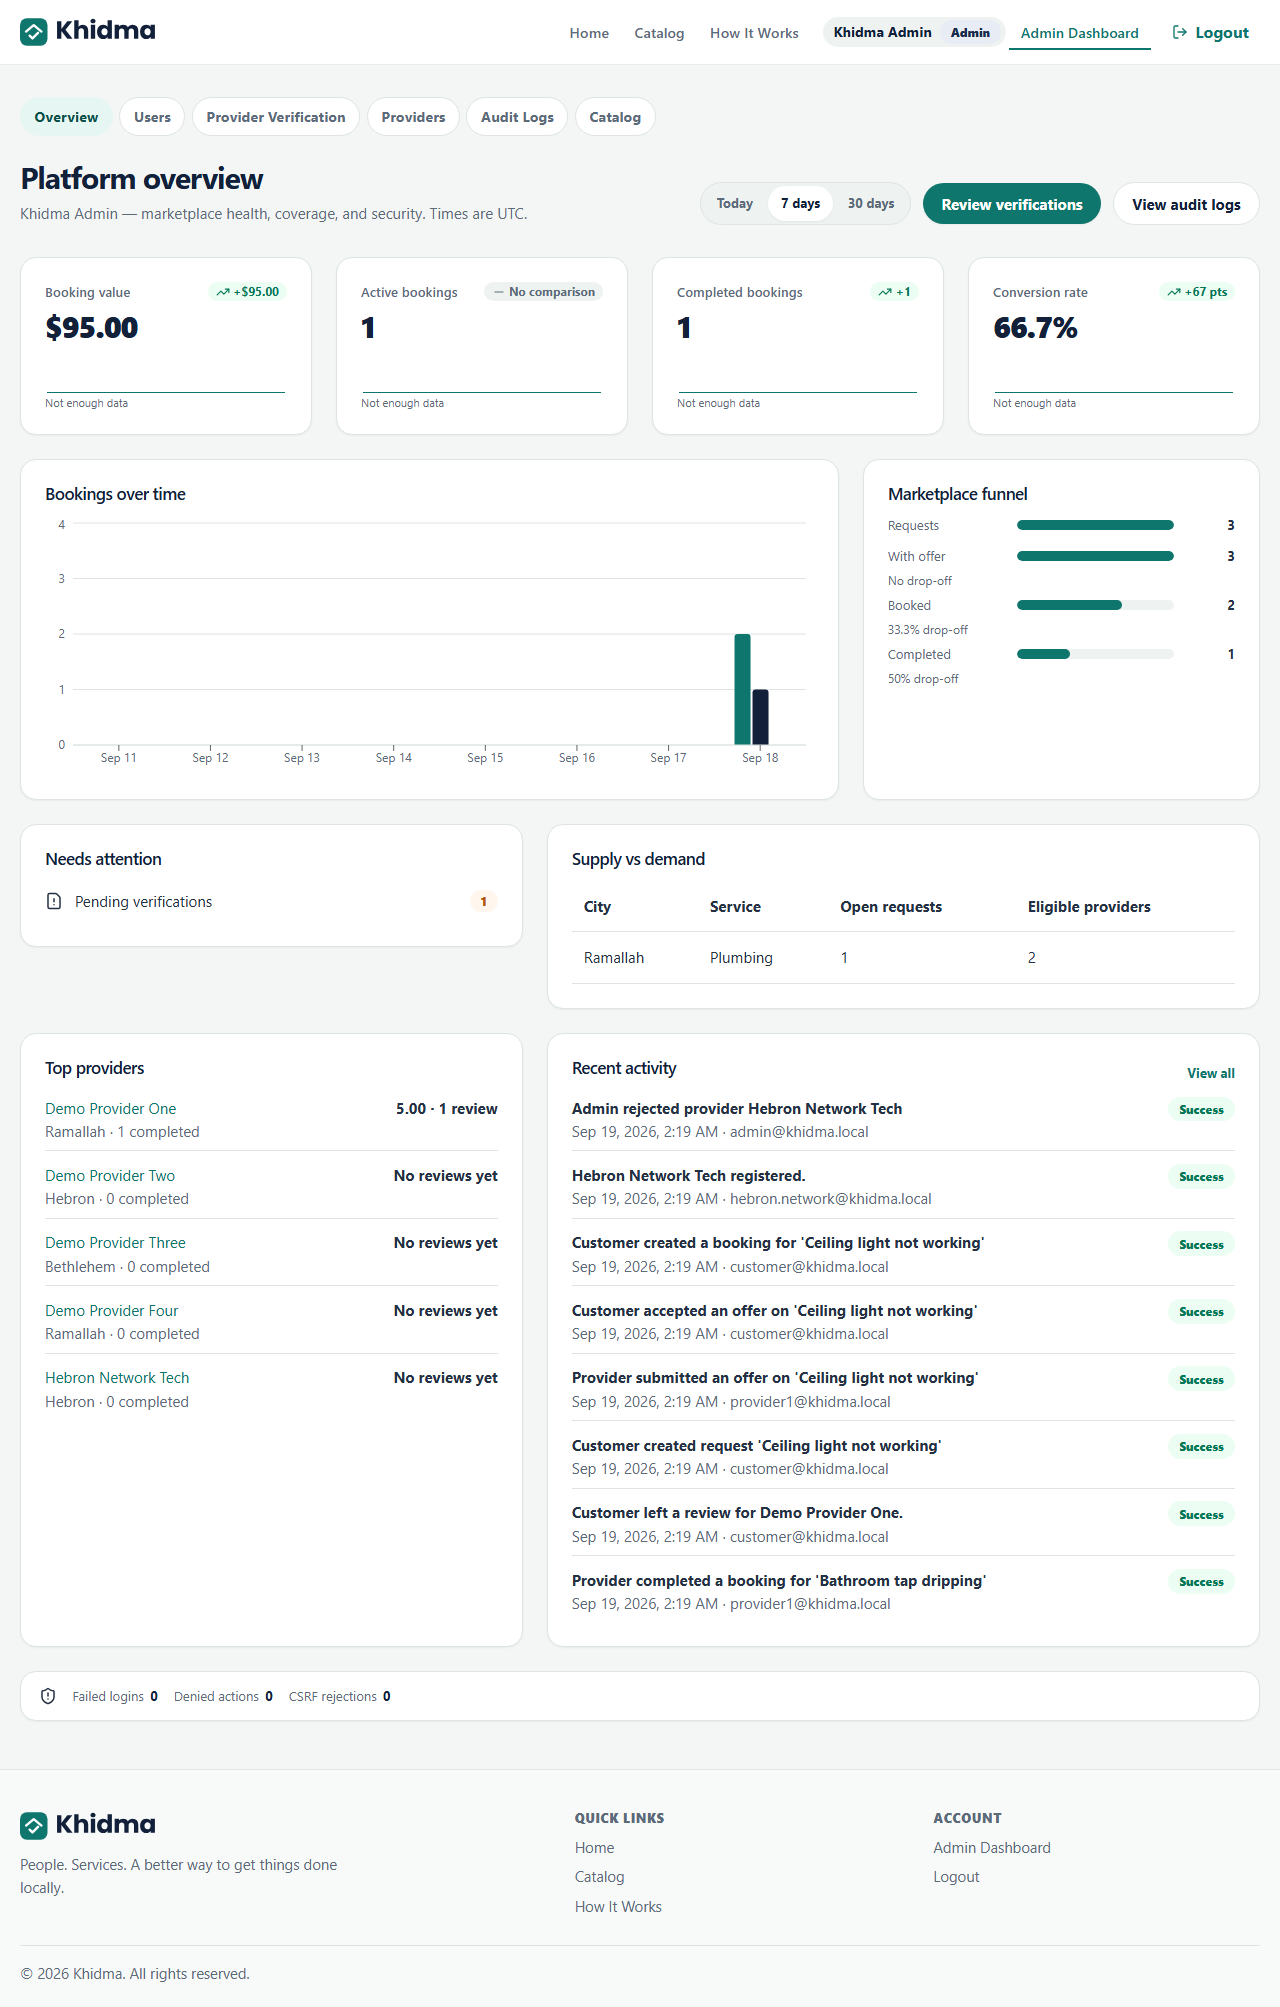
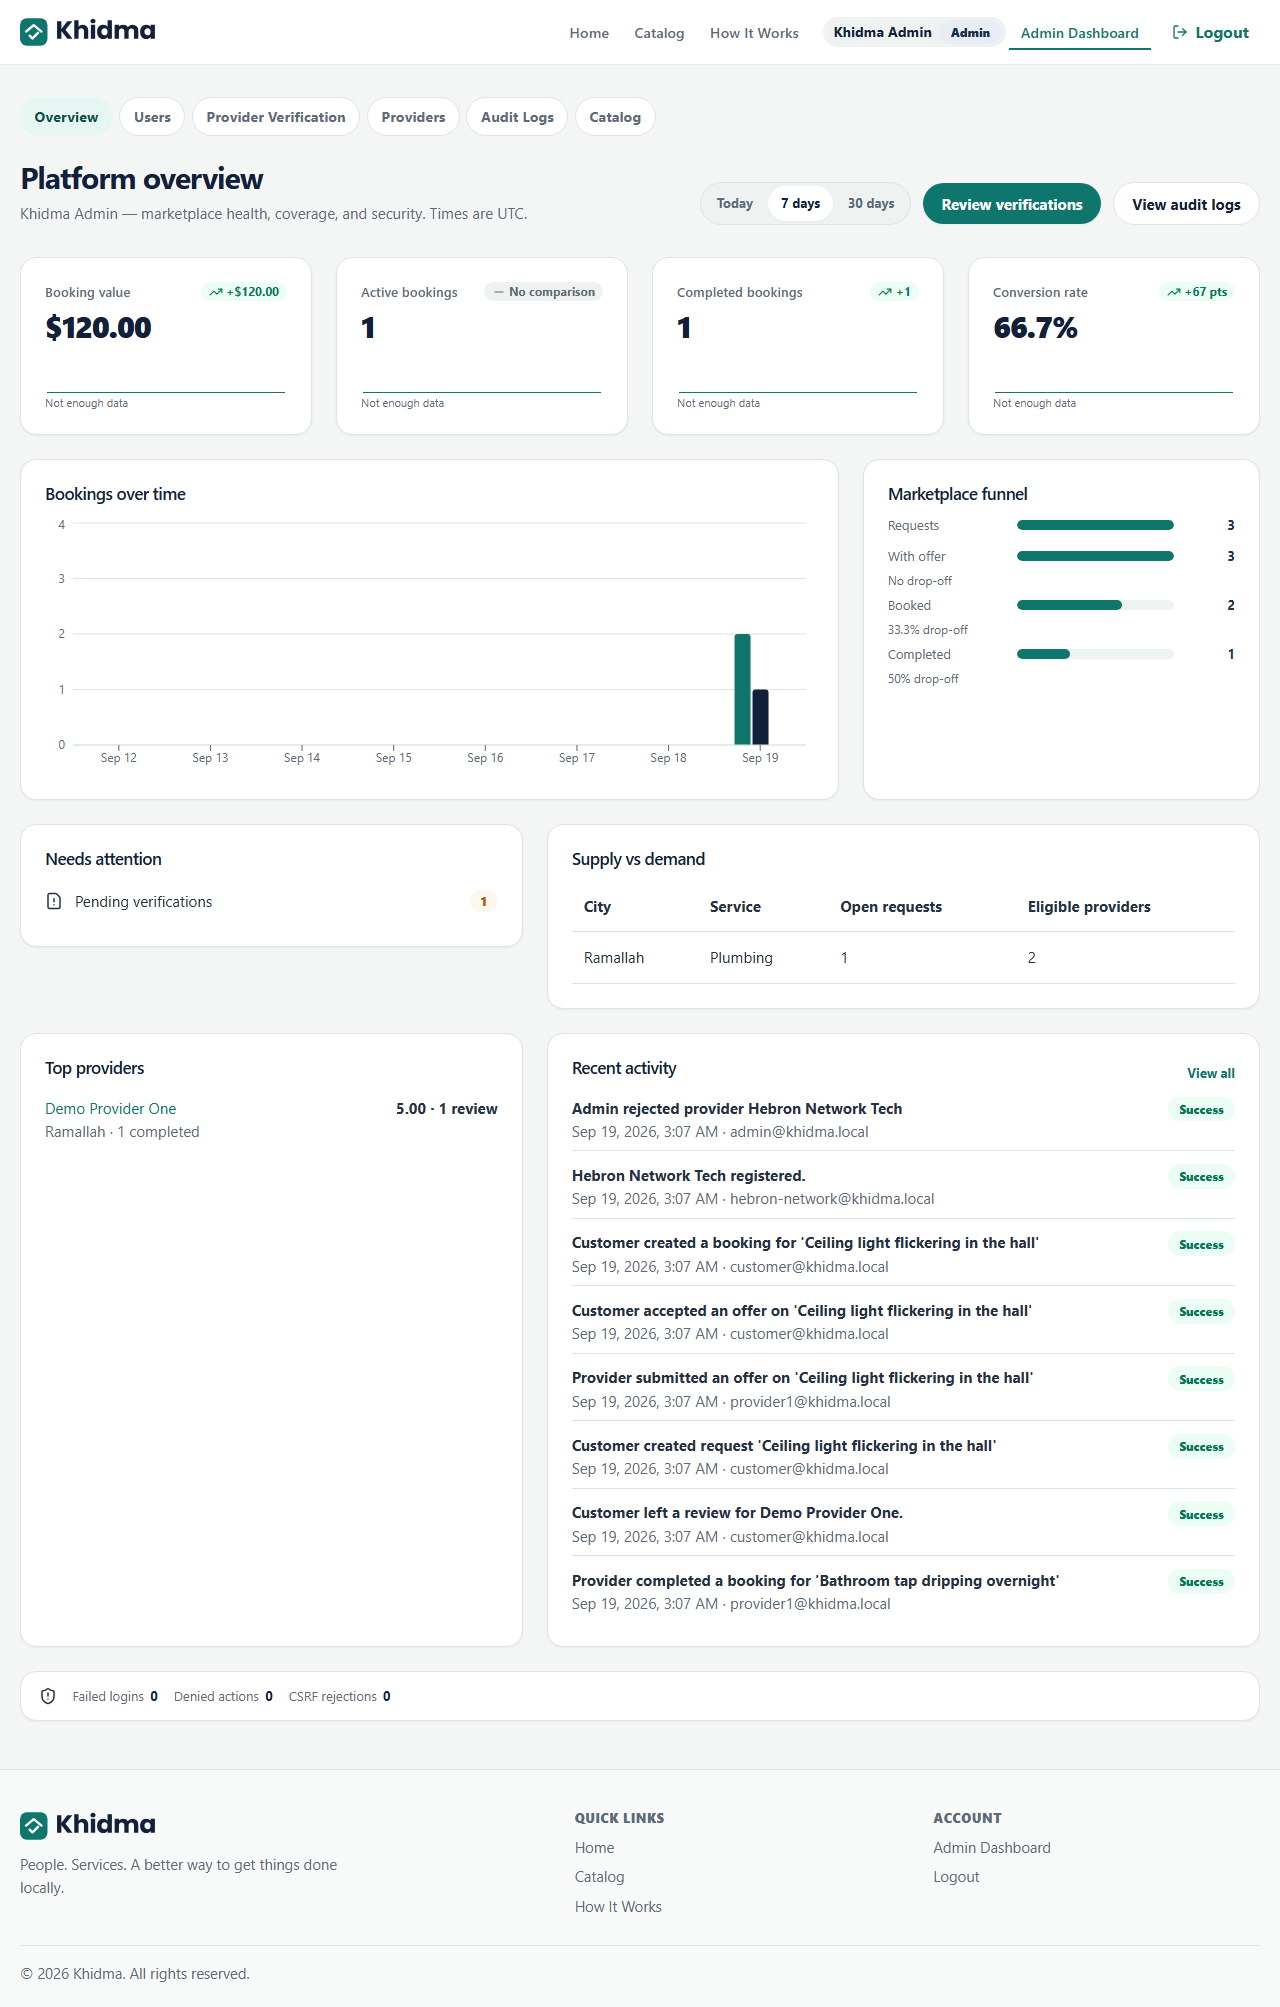
fix(admin): rank only approved, active providers with activity in Top providers

diff --git a/client/src/pages/admin/AdminOverviewPage.test.tsx b/client/src/pages/admin/AdminOverviewPage.test.tsx
@@ -158,7 +158,7 @@ describe('AdminOverviewPage', () => {
 
     expect(await screen.findByText('No requests were created in this range.')).toBeInTheDocument()
     expect(screen.getByText('There are no open requests right now.')).toBeInTheDocument()
-    expect(screen.getByText('No providers to rank yet.')).toBeInTheDocument()
+    expect(screen.getByText('No rated providers yet.')).toBeInTheDocument()
     expect(screen.getByText('No recent activity.')).toBeInTheDocument()
   })
 

diff --git a/client/src/pages/admin/AdminOverviewPage.tsx b/client/src/pages/admin/AdminOverviewPage.tsx
@@ -174,7 +174,7 @@ export function AdminOverviewPage() {
           status={status === 'ready' && data && data.topProviders.length === 0 ? 'empty' : status}
           error={error}
           onRetry={() => void load()}
-          empty="No providers to rank yet."
+          empty="No rated providers yet."
         >
           {data ? <TopProvidersList providers={data.topProviders} /> : null}
         </SectionCard>

diff --git a/server/Khidma.Api.Tests/AdminOverviewTests.cs b/server/Khidma.Api.Tests/AdminOverviewTests.cs
@@ -354,3 +354,131 @@ public sealed class AdminOverviewEmptyDatabaseTests : IAsyncLifetime
         Assert.Equal(0, security.GetProperty("csrfRejections").GetInt32());
     }
 }
+
+public sealed class AdminOverviewTopProvidersTests : IAsyncLifetime
+{
+    private readonly KhidmaApiFactory _factory = new();
+
+    public Task InitializeAsync() => Task.CompletedTask;
+
+    public async Task DisposeAsync() => await _factory.DisposeAsync();
+
+    [Fact]
+    public async Task RejectedProvider_WithFiveStarRating_IsNotListed()
+    {
+        var (admin, _) = await TestHarness.CreateAdminAsync(_factory);
+        await SeedNamedProviderAsync(
+            "Rejected Five Star",
+            ProviderVerificationStatus.Rejected,
+            suspended: false,
+            rating: 5.00m,
+            reviewCount: 4);
+
+        Assert.DoesNotContain("Rejected Five Star", await TopProviderNamesAsync(admin));
+    }
+
+    [Fact]
+    public async Task SuspendedProvider_IsNotListed()
+    {
+        var (admin, _) = await TestHarness.CreateAdminAsync(_factory);
+        await SeedNamedProviderAsync(
+            "Suspended Star",
+            ProviderVerificationStatus.Approved,
+            suspended: true,
+            rating: 4.90m,
+            reviewCount: 6);
+
+        Assert.DoesNotContain("Suspended Star", await TopProviderNamesAsync(admin));
+    }
+
+    [Fact]
+    public async Task PendingProvider_IsNotListed()
+    {
+        var (admin, _) = await TestHarness.CreateAdminAsync(_factory);
+        await SeedNamedProviderAsync(
+            "Pending Star",
+            ProviderVerificationStatus.PendingReview,
+            suspended: false,
+            rating: 4.80m,
+            reviewCount: 3);
+
+        Assert.DoesNotContain("Pending Star", await TopProviderNamesAsync(admin));
+    }
+
+    [Fact]
+    public async Task ApprovedProvider_WithZeroReviewsAndZeroCompletedBookings_IsNotListed()
+    {
+        var (admin, _) = await TestHarness.CreateAdminAsync(_factory);
+        await SeedNamedProviderAsync(
+            "Idle Approved",
+            ProviderVerificationStatus.Approved,
+            suspended: false,
+            rating: 0m,
+            reviewCount: 0);
+
+        Assert.DoesNotContain("Idle Approved", await TopProviderNamesAsync(admin));
+    }
+
+    [Fact]
+    public async Task TopProviders_OrderByRatingThenReviewCount()
+    {
+        var (admin, _) = await TestHarness.CreateAdminAsync(_factory);
+        await SeedNamedProviderAsync(
+            "Lower Rated Many Reviews",
+            ProviderVerificationStatus.Approved,
+            suspended: false,
+            rating: 4.50m,
+            reviewCount: 20);
+        await SeedNamedProviderAsync(
+            "Top Rated Few Reviews",
+            ProviderVerificationStatus.Approved,
+            suspended: false,
+            rating: 5.00m,
+            reviewCount: 2);
+        await SeedNamedProviderAsync(
+            "Top Rated Many Reviews",
+            ProviderVerificationStatus.Approved,
+            suspended: false,
+            rating: 5.00m,
+            reviewCount: 8);
+
+        var names = await TopProviderNamesAsync(admin);
+        Assert.Equal(
+            new[] { "Top Rated Many Reviews", "Top Rated Few Reviews", "Lower Rated Many Reviews" },
+            names);
+    }
+
+    private async Task SeedNamedProviderAsync(
+        string fullName,
+        ProviderVerificationStatus status,
+        bool suspended,
+        decimal rating,
+        int reviewCount)
+    {
+        var city = $"P{Guid.NewGuid():N}"[..10];
+        var (_, user) = await TestHarness.RegisterAsync(_factory, "Provider", city);
+        using var scope = _factory.Services.CreateScope();
+        var db = scope.ServiceProvider.GetRequiredService<AppDbContext>();
+        var profile = await db.ProviderProfiles
+            .Include(p => p.User)
+            .SingleAsync(p => p.UserId == user.Id);
+        profile.User.FullName = fullName;
+        profile.VerificationStatus = status;
+        profile.IsSuspended = suspended;
+        profile.AverageRating = rating;
+        profile.ReviewCount = reviewCount;
+        await db.SaveChangesAsync();
+    }
+
+    private static async Task<List<string>> TopProviderNamesAsync(HttpClient admin)
+    {
+        var response = await admin.GetAsync("/api/admin/stats/overview?range=7d");
+        response.EnsureSuccessStatusCode();
+        using var doc = JsonDocument.Parse(await response.Content.ReadAsStringAsync());
+        return doc.RootElement
+            .GetProperty("topProviders")
+            .EnumerateArray()
+            .Select(item => item.GetProperty("name").GetString() ?? string.Empty)
+            .ToList();
+    }
+}

diff --git a/server/Khidma.Api/Services/Admin/AdminService.Overview.cs b/server/Khidma.Api/Services/Admin/AdminService.Overview.cs
@@ -84,6 +84,13 @@ public sealed partial class AdminService
         var supplyRows = await LoadSupplyDemandAsync(cancellationToken);
         var topProviders = await _db.ProviderProfiles
             .AsNoTracking()
+            .Where(p =>
+                p.VerificationStatus == ProviderVerificationStatus.Approved &&
+                !p.IsSuspended &&
+                (p.ReviewCount > 0 ||
+                 _db.Bookings.Any(b =>
+                     b.ProviderId == p.UserId &&
+                     b.Status == BookingStatus.Completed)))
             .Select(p => new TopProviderDto
             {
                 Id = p.Id,
@@ -96,6 +103,7 @@ public sealed partial class AdminService
                     b.Status == BookingStatus.Completed)
             })
             .OrderByDescending(p => p.Rating)
+            .ThenByDescending(p => p.ReviewCount)
             .ThenByDescending(p => p.CompletedJobs)
             .Take(5)
             .ToListAsync(cancellationToken);
